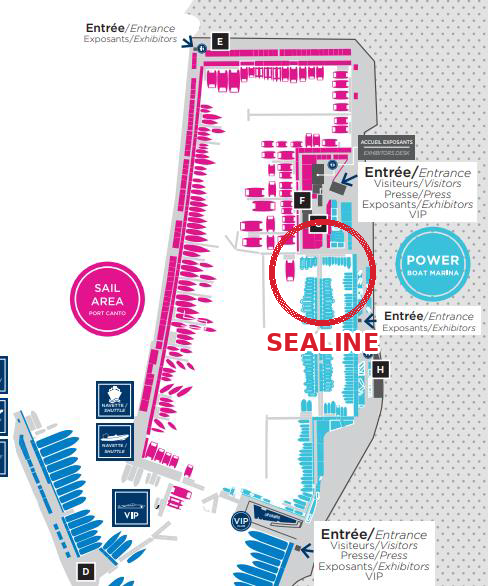
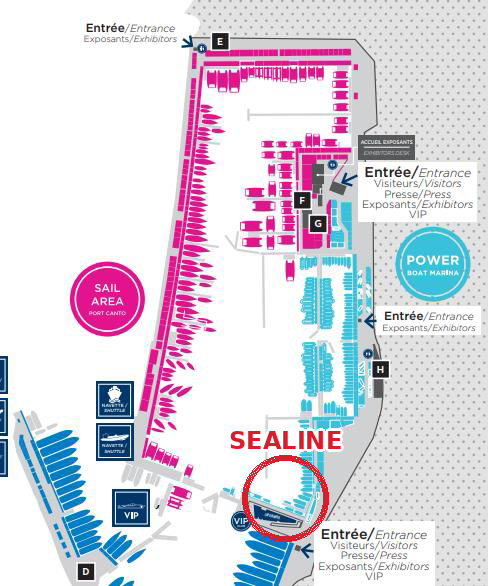
Retours client V2 : plan corrigé, places de port, façade carte, voiliers, tri
- Plan de Cannes remplacé à l'identique (nouvel emplacement du cercle)
- Places de port : contenu inexact retiré, message d'indisponibilité,
  CTA contact et téléphones cliquables ; la page reste en nav et au
  sitemap (décision client)
- /contact#plan : façade Google Maps, aucun iframe avant le clic sur
  « Afficher la carte », CSP frame-src Google, cookies des mentions
  légales alignés, lien Itinéraire conservé
- Voiliers visible en nav et au sitemap à stock vide (décision client,
  catamaran reste dynamique), état vide dédié avec CTA
- Tableaux : tri par défaut prix croissant, prix nuls toujours en fin
- QA : verifier exit 0 (44 routes), Lighthouse accueil 91 / occasions
  95 / contact 98, accessibilité 100, CLS 0, screenshots

Claude-Session: https://claude.ai/code/session_013gw2H7vEpF73wC9omeJo68

diff --git a/app/places-de-port/page.tsx b/app/places-de-port/page.tsx
@@ -2,16 +2,21 @@ import type { Metadata } from "next";
 import Link from "next/link";
 import Surface from "@/components/da/Surface";
 import { lireContenu } from "@/lib/contenu";
+import { SITE } from "@/lib/site";
 import { typoFr } from "@/lib/format";
 
 export const metadata: Metadata = {
-  title: "Places de port à vendre à Port Fréjus",
+  title: "Places de port à Port Fréjus",
   description:
-    "Places de port à vendre à Port Fréjus, de 6 m à 22 m, dont emplacements catamaran. Contactez Nauticea Yachting pour plus d'informations.",
+    "Places de port à Port Fréjus : contactez Nauticea Yachting pour connaître les prochaines disponibilités.",
   alternates: { canonical: "/places-de-port" },
 };
 
-// Tableau et textes éditables dans content/places-de-port.md.
+// Décision client (retours du 16/08, V2) : cette page reste en
+// navigation et au sitemap même sans place disponible, elle échappe
+// donc au masquage des pages vides. Textes éditables dans
+// content/places-de-port.md ; le tableau réapparaît dès que des
+// lignes « place: » y sont ajoutées.
 export default function PlacesDePort() {
   const contenu = lireContenu("places-de-port.md");
   const places = (contenu.listes.place ?? []).map((ligne) => {
@@ -24,39 +29,58 @@ export default function PlacesDePort() {
       <h1 className="text-display-l font-bold text-marine md:text-display-xl">
         {contenu.meta.titre}
       </h1>
-      <p className="mt-3 text-encre/80">{typoFr(contenu.meta.intro ?? "")}</p>
-      <Surface className="mt-6 overflow-x-auto rounded-lg">
-        <table className="w-full border-collapse text-sm">
-          <thead>
-            <tr className="bg-marine text-left text-white">
-              <th scope="col" className="px-4 py-3">Dimensions</th>
-              <th scope="col" className="px-4 py-3">Port</th>
-              <th scope="col" className="px-4 py-3">Amodiation</th>
-            </tr>
-          </thead>
-          <tbody>
-            {places.map((p, i) => (
-              <tr key={p.dimensions} className={i % 2 ? "bg-ecume" : "bg-white"}>
-                <td className="sonde px-4 py-3 font-semibold">{p.dimensions}</td>
-                <td className="px-4 py-3">{p.port}</td>
-                <td className="sonde px-4 py-3">{p.amodiation}</td>
+      {contenu.meta.intro && (
+        <p className="mt-3 text-encre/80">{typoFr(contenu.meta.intro)}</p>
+      )}
+      {places.length > 0 && (
+        <Surface className="mt-6 overflow-x-auto rounded-lg">
+          <table className="w-full border-collapse text-sm">
+            <thead>
+              <tr className="bg-marine text-left text-white">
+                <th scope="col" className="px-4 py-3">Dimensions</th>
+                <th scope="col" className="px-4 py-3">Port</th>
+                <th scope="col" className="px-4 py-3">Amodiation</th>
               </tr>
-            ))}
-          </tbody>
-        </table>
-      </Surface>
+            </thead>
+            <tbody>
+              {places.map((p, i) => (
+                <tr key={p.dimensions} className={i % 2 ? "bg-ecume" : "bg-white"}>
+                  <td className="sonde px-4 py-3 font-semibold">{p.dimensions}</td>
+                  <td className="px-4 py-3">{p.port}</td>
+                  <td className="sonde px-4 py-3">{p.amodiation}</td>
+                </tr>
+              ))}
+            </tbody>
+          </table>
+        </Surface>
+      )}
       {contenu.paragraphes.map((p) => (
         <p key={p.slice(0, 32)} className="mt-6 leading-relaxed text-encre/80">
           {typoFr(p)}
         </p>
       ))}
-      <p className="mt-4">
+      <p className="mt-6">
         <Link
           href="/contact"
           className="inline-block rounded bg-marine px-5 py-2.5 font-semibold text-white hover:bg-marine-2"
         >
           Nous contacter
         </Link>
+      </p>
+      <p className="mt-4 text-sm">
+        <a
+          href={`tel:${SITE.telephoneFixeHref}`}
+          className="sonde inline-block py-1 font-semibold text-azur-2 hover:underline"
+        >
+          {typoFr(`Bureau : ${SITE.telephoneFixe}`)}
+        </a>
+        <br />
+        <a
+          href={`tel:${SITE.telephoneMobileHref}`}
+          className="sonde inline-block py-1 font-semibold text-azur-2 hover:underline"
+        >
+          {typoFr(`Mobile : ${SITE.telephoneMobile}`)}
+        </a>
       </p>
     </div>
   );

diff --git a/components/CarteFacade.tsx b/components/CarteFacade.tsx
@@ -1,0 +1,53 @@
+"use client";
+
+import { useState } from "react";
+import { typoFr } from "@/lib/format";
+
+// Façade de carte Google Maps (retours client du 16/08, V2) : aucun
+// iframe au chargement, un aperçu statique avec l'adresse et un bouton
+// qui charge la carte au clic. Motifs : budgets Lighthouse intacts et
+// zéro cookie Google avant le clic (section Cookies des mentions
+// légales alignée sur ce comportement, CSP frame-src en face).
+const REQUETE = "Nauticea Yachting, 23 Quai de la Foudre, 83600 Fréjus";
+const URL_EMBED = `https://www.google.com/maps?q=${encodeURIComponent(REQUETE)}&z=16&output=embed`;
+
+export default function CarteFacade({ adresse }: { adresse: string }) {
+  const [ouverte, setOuverte] = useState(false);
+
+  if (ouverte) {
+    return (
+      <figure className="mt-5">
+        <iframe
+          src={URL_EMBED}
+          title="Carte Google Maps : Nauticea Yachting à Port Fréjus"
+          className="h-96 w-full rounded-lg border border-encre/10"
+          loading="lazy"
+          allowFullScreen
+        />
+        <figcaption className="mt-3 text-sm leading-relaxed text-encre/70">
+          {typoFr(adresse)}
+        </figcaption>
+      </figure>
+    );
+  }
+
+  return (
+    <div className="mt-5 rounded-lg border border-encre/10 bg-ecume p-6">
+      <p className="leading-relaxed text-encre/80">{typoFr(adresse)}</p>
+      <p className="mt-4">
+        <button
+          type="button"
+          onClick={() => setOuverte(true)}
+          className="inline-block rounded bg-marine px-5 py-2.5 font-semibold text-white hover:bg-marine-2"
+        >
+          Afficher la carte
+        </button>
+      </p>
+      <p className="mt-3 text-sm text-encre/70">
+        {typoFr(
+          "La carte Google Maps se charge au clic ; aucun cookie Google n'est déposé avant."
+        )}
+      </p>
+    </div>
+  );
+}

diff --git a/components/BoatList.tsx b/components/BoatList.tsx
@@ -12,10 +12,13 @@ export default function BoatList({
   boats,
   filtreEtatInitial = "tous",
   masquerFiltreEtat = false,
+  messageVide,
 }: {
   boats: Boat[];
   filtreEtatInitial?: FiltreEtat;
   masquerFiltreEtat?: boolean;
+  /** Message d'état vide spécifique (ex. voiliers, décision client). */
+  messageVide?: string;
 }) {
   const [tri, setTri] = useState<Tri>("recentes");
   const [etat, setEtat] = useState<FiltreEtat>(filtreEtatInitial);
@@ -94,14 +97,23 @@ export default function BoatList({
             />
           </svg>
           <p className="mt-4 font-medium text-encre/80">
-            Aucune annonce dans cette sélection pour le moment.
+            {messageVide ?? "Aucune annonce dans cette sélection pour le moment."}
           </p>
-          <Link
-            href="/annonces"
-            className="mt-4 inline-block rounded bg-marine px-5 py-2.5 text-sm font-semibold text-white hover:bg-marine-2"
-          >
-            Voir toutes les annonces
-          </Link>
+          {messageVide ? (
+            <Link
+              href="/contact"
+              className="mt-4 inline-block rounded bg-marine px-5 py-2.5 text-sm font-semibold text-white hover:bg-marine-2"
+            >
+              Nous contacter
+            </Link>
+          ) : (
+            <Link
+              href="/annonces"
+              className="mt-4 inline-block rounded bg-marine px-5 py-2.5 text-sm font-semibold text-white hover:bg-marine-2"
+            >
+              Voir toutes les annonces
+            </Link>
+          )}
         </div>
       ) : (
         <ul className="mt-6 grid list-none gap-6 p-0 sm:grid-cols-2 lg:grid-cols-3">

diff --git a/components/PageAnnonces.tsx b/components/PageAnnonces.tsx
@@ -15,9 +15,13 @@ const CATEGORIES = [
 // Les catégories sans stock sont masquées de la navigation ; elles
 // réapparaissent d'elles-mêmes si le jeu de données en contient à nouveau.
 // Les routes restent servies (cibles des redirections 301), avec état vide.
+// Exception, décision client (retours du 16/08, V2) : Voiliers reste
+// visible même à stock vide ; ce choix annule le calcul dynamique pour
+// cette seule catégorie. Catamaran garde le comportement dynamique.
 function categoriesDisponibles(): Set<string> {
   const presentes = new Set(getBoats().map((b) => b.categorie as string));
   presentes.add("");
+  presentes.add("voiliers");
   return presentes;
 }
 
@@ -29,6 +33,7 @@ export default function PageAnnonces({
   filtreEtatInitial,
   masquerFiltreEtat,
   avecTableau = false,
+  messageVide,
 }: {
   titre: string;
   intro?: string;
@@ -37,6 +42,8 @@ export default function PageAnnonces({
   filtreEtatInitial?: "tous" | "neuf" | "occasion";
   masquerFiltreEtat?: boolean;
   avecTableau?: boolean;
+  /** Message d'état vide spécifique (ex. voiliers, décision client). */
+  messageVide?: string;
 }) {
   return (
     <div className="mx-auto max-w-6xl px-4 py-10">
@@ -77,6 +84,7 @@ export default function PageAnnonces({
           boats={boats}
           filtreEtatInitial={filtreEtatInitial}
           masquerFiltreEtat={masquerFiltreEtat}
+          messageVide={messageVide}
         />
       </Reveal>
     </div>

diff --git a/app/contact/page.tsx b/app/contact/page.tsx
@@ -1,4 +1,5 @@
 import type { Metadata } from "next";
+import CarteFacade from "@/components/CarteFacade";
 import ContactForm from "@/components/ContactForm";
 import Surface from "@/components/da/Surface";
 import { SITE, emailDisponible, itineraireUrl } from "@/lib/site";
@@ -115,14 +116,11 @@ export default async function Contact({
         <h2 id="plan-titre" className="text-display-s font-semibold text-marine">
           Nous trouver dans le port
         </h2>
-        {/* Le plan du port annoté (flèche sur le local) s'insérera ici en
-            figure responsive dès que Bruno l'aura fourni : introuvable dans
-            le corpus comme sur l'ancienne page contact en ligne (16/08). */}
-        <p className="mt-3 leading-relaxed text-encre/80">
-          {typoFr(
-            `${SITE.nom}, ${SITE.adresse.rue}, ${SITE.adresse.codePostal} ${SITE.adresse.ville}.`
-          )}
-        </p>
+        {/* Carte Google Maps en façade (retours client 16/08 V2) :
+            l'iframe ne se charge qu'au clic sur « Afficher la carte ». */}
+        <CarteFacade
+          adresse={`${SITE.nom}, ${SITE.adresse.rue}, ${SITE.adresse.codePostal} ${SITE.adresse.ville}.`}
+        />
         <p className="mt-5">
           <a
             href={itineraireUrl()}

diff --git a/app/mentions-legales/page.tsx b/app/mentions-legales/page.tsx
@@ -57,7 +57,8 @@ const SECTIONS: Section[] = [
   {
     titre: "Cookies",
     lignes: [
-      "Le site ne dépose aucun cookie : ni cookie de suivi, ni mesure d'audience, ni traceur publicitaire.",
+      "Le site ne dépose aucun cookie de lui-même : ni cookie de suivi, ni mesure d'audience, ni traceur publicitaire.",
+      "Sur la page Contact, la carte Google Maps ne se charge qu'après un clic sur « Afficher la carte ». Ce clic charge un contenu de Google (Google Ireland Limited), qui peut alors déposer ses propres cookies, nécessaires au fonctionnement de la carte. Aucun cookie Google n'est déposé avant ce clic.",
     ],
   },
 ];

diff --git a/components/TableauRecapitulatif.tsx b/components/TableauRecapitulatif.tsx
@@ -32,7 +32,13 @@ function valeurDe(boat: Boat, cle: CleTri): number | null {
 }
 
 export default function TableauRecapitulatif({ boats }: { boats: Boat[] }) {
-  const [tri, setTri] = useState<{ cle: CleTri; sens: Sens } | null>(null);
+  // Tri par défaut prix croissant (retours client 16/08 V2) ; les
+  // « Prix sur demande » (prix null) restent en fin de liste quel que
+  // soit le sens du tri (valeurs nulles poussées en queue plus bas).
+  const [tri, setTri] = useState<{ cle: CleTri; sens: Sens } | null>({
+    cle: "prix",
+    sens: "asc",
+  });
 
   const lignes = useMemo(() => {
     if (!tri) {

diff --git a/app/sitemap.ts b/app/sitemap.ts
@@ -7,7 +7,9 @@ import { SITE } from "@/lib/site";
 // pages sans contenu (catégories sans stock, actualités vides) restent
 // servies par leur URL mais sortent du sitemap et de la navigation.
 export default function sitemap(): MetadataRoute.Sitemap {
-  const categories = getCategoriesAvecStock();
+  // Décision client (retours du 16/08, V2) : Voiliers reste au sitemap
+  // même à stock vide ; Catamaran garde le comportement dynamique.
+  const categories = [...new Set([...getCategoriesAvecStock(), "voiliers"])];
   const statiques = [
     "",
     "/a-propos",

diff --git a/app/annonces/voiliers/page.tsx b/app/annonces/voiliers/page.tsx
@@ -9,12 +9,16 @@ export const metadata: Metadata = {
   alternates: { canonical: "/annonces/voiliers" },
 };
 
+// Décision client (retours du 16/08, V2) : la catégorie Voiliers reste
+// visible en navigation et au sitemap même à stock vide, avec cet état
+// vide dédié.
 export default function Voiliers() {
   return (
     <PageAnnonces
       titre="Voiliers"
       boats={getBoats().filter((b) => b.categorie === "voiliers")}
       categorieActive="voiliers"
+      messageVide="Aucun voilier disponible actuellement. Contactez-nous."
     />
   );
 }

diff --git a/next.config.ts b/next.config.ts
@@ -33,6 +33,9 @@ const CSP = [
   "img-src 'self' data:",
   "font-src 'self'",
   "connect-src 'self'",
+  // Carte Google Maps de /contact, chargée uniquement au clic sur la
+  // façade (retours client 16/08 V2).
+  "frame-src https://www.google.com https://maps.google.com",
   "frame-ancestors 'none'",
   "base-uri 'self'",
   "form-action 'self'",

diff --git a/content/places-de-port.md b/content/places-de-port.md
@@ -1,14 +1,5 @@
 ---
-titre: Places de port à vendre
-intro: Dimensions en mètres (tolérance longueur 10 %).
-place: 6 m × 2,50 m | Port-Fréjus | 2025
-place: 8 m × 3 m | Port-Fréjus | 2025
-place: 10 m × 3,50 m | Port-Fréjus | 2025
-place: 12 m × 4 m | Port-Fréjus | 2025
-place: 12 m × 8 m (catamaran) | Port-Fréjus | 2025
-place: 15 m × 4,50 m | Port-Fréjus | 2025
-place: 18 m × 10,30 m (catamaran) | Port-Fréjus | 2025
-place: 22 m × 11,40 m (catamaran) | Port-Fréjus | 2025
+titre: Places de port
 ---
 
-Pour plus d'informations, merci de nous contacter.
+Aucune place de port disponible actuellement. Contactez-nous pour connaître les prochaines disponibilités.
